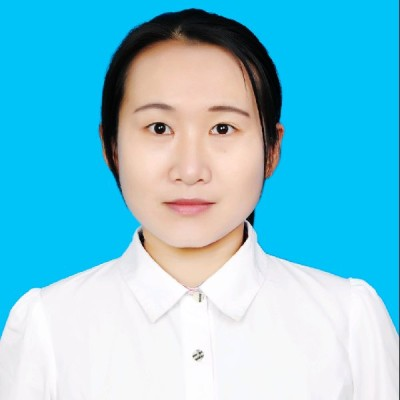
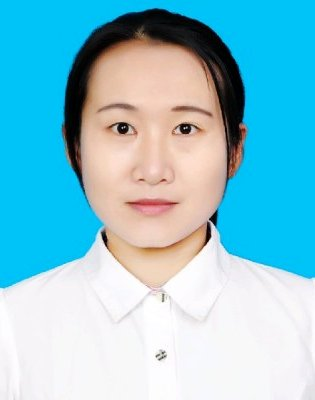
partners

diff --git a/about.html b/about.html
@@ -51,7 +51,7 @@
     <div class="container">
       <!-- Page Heading/Breadcrumbs -->
       <h1 class="mt-4 mb-3">About
-      <small>Weisong Zhao</small>
+      <!-- <small>Weisong Zhao</small> -->
       </h1>
       <ol class="breadcrumb">
         <li class="breadcrumb-item">
@@ -61,13 +61,12 @@
       </ol>
       <div class="row">
         <div class="col-lg-3">
-          <img class="img-fluid rounded mb-4" src="./img/partner/me.jpg"
+          <img class="img-fluid rounded mb-4" src="./img/partner/ME-Dgray.png"
           height="400" width="400"
           alt="">
         </div>
         <div class="col-lg-8">
-          <h2></h2>
-          <h2>Weisong Zhao (赵唯淞)</h2>
+          <h3>Weisong Zhao (赵唯淞)</h3>
           <p>Doctoral candidate at Harbin Institute of Technology. Excited about open-source, and everything related to image.</p>
           <p><strong>Ph.D.</strong> (Research field in Super-resolution Microscopy, <b>School of Instrumentation Science and Engineering</b>, Harbin Institute of Technology, China. (Until now ~ Aug. 2017)</p>
           <p><strong>B.S. </strong>(Research field in Adaptive optics, <b>School of Physics</b>, Harbin Institute of Technology, China. (Aug. 2017 ~ Jun. 2013)</p>
@@ -105,9 +104,9 @@
       
       <!-- <h5><strong style="color:rgba(1,0,0,1)">2020</strong></h5> -->
     </p>
-    <hr>
+    <hr><br><br>
     <!-- Team Members -->
-    <h2>Partners</h2>
+    <div><h2>Partners</h2></div>
     <div class="row">
       <div class="col-lg-2 mb-2">
         <div class="card h-100 text-center">
@@ -135,24 +134,54 @@
           </div>
         </div>
       </div>
-      <!--         <div class="col-lg-4 mb-4">
+
+         <div class="col-lg-2 mb-2">
         <div class="card h-100 text-center">
-          <img class="card-img-top" src="" alt="">
+        	<div align="center">
+          <img width='88%' src="https://www.imm.pku.edu.cn/images/content/2017-01/20170121172559017422.jpg" alt="">
+      	</div>
           <div class="card-body">
-            <h4 class="card-title">Chenguang Liu</h4>
-            <h6 class="card-subtitle mb-2 text-muted">Harbin Insitute of Technology</h6>
-            <p class="card-text">Lorem ipsum dolor sit amet, consectetur adipisicing elit. Possimus aut mollitia eum ipsum fugiat odio officiis odit.</p>
+            <h5 class="card-title"><a href="http://scholar.pku.edu.cn/lychen/home"> Liangyi Chen </a> </h5>
+            <h6 class="card-subtitle mb-2 text-muted">Peking University</h6>
+            <p class="card-text">Professor.</p>
           </div>
           <div class="card-footer">
-            <a href="#">name@example.com</a>
+            <a href="#">lychen@pku.edu.cn</a>
           </div>
         </div>
-      </div> -->
+      </div>
+
+         <div class="col-lg-2 mb-2">
+        <div class="card h-100 text-center">
+          <img width='100%' src="./img/partner/changliang.jpg" alt="">
+          <div class="card-body">
+            <h5 class="card-title"><a href="https://www.linkedin.com/in/changliang-guo-92165a6b"> Changliang Guo </a> </h5>
+            <h6 class="card-subtitle mb-2 text-muted">Peking University</h6>
+            <p class="card-text">Associate Research Fellow.</p>
+          </div>
+          <div class="card-footer">
+            <a href="#">clg405457761@g.ucla.edu</a>
+          </div>
+        </div>
+      </div>
+
+         <div class="col-lg-2 mb-2">
+        <div class="card h-100 text-center">
+          <img class="card-img-top" width='100%' src="./img/partner/shiqun.jpg" alt="">
+          <div class="card-body">
+            <h5 class="card-title"><a href="https://www.linkedin.com/in/shiqun-zhao-17aa99134"> Shiqun Zhao </a> </h5>
+            <h6 class="card-subtitle mb-2 text-muted">Peking University</h6>
+            <p class="card-text">Postdoctoral Fellow.</p>
+          </div>
+          <div class="card-footer">
+            <a href="#">shiqunzhao@163.com</a>
+          </div>
+        </div>
+      </div>
     </div>
     <!-- /.row -->
     <hr>
-    <!-- Our Customers -->
-    <h2>Other partners</h2>
+<!--     <h2>Other partners</h2>
     <div class="row">
       <div class="col-lg-2 mb-2">
         <div class="card h-100 text-center">
@@ -181,40 +210,8 @@
           </div>
         </div>
       </div>
-<!--       <div class="col-lg-2 mb-2">
-        <div class="card h-100 text-center">
-          <img class="card-img-top" src="./img/partner/Xiaoshuai-Huang.jpg" alt="">
-          <div class="card-body">
-            <h5 class="card-title"><a href="https://www.researchgate.net/profile/Xiaoshuai_Huang2"> Xiaoshuai Huang</a> </h5>
-            <h6 class="card-subtitle mb-2 text-muted">Peking University</h6>
-          </div>
-        </div>
-      </div> -->
-      <!--
-      <div class="row">
-        <div class="col-lg-2 col-sm-4 mb-4">
-          <img class="img-fluid" src="http://scholar.pku.edu.cn/sites/default/files/chenly2012.jpg" alt="">
-          <p><a href="http://scholar.pku.edu.cn/lychen/home"> Liangyi Chen</a> </br>Peking University</p>
-        </div>
-        <div class="col-lg-2 col-sm-4 mb-4">
-          <img class="img-fluid" src="http://placehold.it/500x300" alt="">
-        </div>
-        <div class="col-lg-2 col-sm-4 mb-4">
-          <img class="img-fluid" src="http://placehold.it/500x300" alt="">
-        </div>
-        <div class="col-lg-2 col-sm-4 mb-4">
-          <img class="img-fluid" src="http://placehold.it/500x300" alt="">
-        </div>
-        <div class="col-lg-2 col-sm-4 mb-4">
-          <img class="img-fluid" src="http://placehold.it/500x300" alt="">
-        </div>
-        <div class="col-lg-2 col-sm-4 mb-4">
-          <img class="img-fluid" src="http://placehold.it/500x300" alt="">
-        </div>
-      </div>
-      -->
-      <!-- /.row -->
-    </div>
+    </div> -->
+
     <!-- /.container -->
     <!-- Footer -->
     <footer class="py-5 bg-dark">
